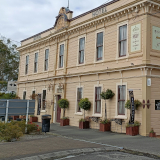
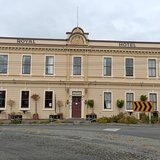
feat(home): add photo attribution for all real home-page images
- Adds the credit line the reviewer asked for on all 25 real/AI images
  across the active and coming-soon nav cards, plus Approvals and
  About this site
- Attribution.url is now optional — most credits are just a name with
  no source link, so the tooltip renders plain text when there's no
  url and a link when there is one
- Fixed .nav-card--coming having pointer-events: none on the whole
  card, which silently blocked the new ComingCard attribution tooltip
  from ever being hoverable; pointer events are now re-enabled on just
  the image
- Replaced the Local Accommodation photo — the original was a
  commercial photo — with a CC BY-SA Wikimedia Commons photo of the
  Royal Hotel

diff --git a/kanecta-ui/kanecta-apps/kanecta-app-community-hub/community-hub-client-web/src/pages/Home.tsx b/kanecta-ui/kanecta-apps/kanecta-app-community-hub/community-hub-client-web/src/pages/Home.tsx
@@ -14,6 +14,7 @@ const publicActive = [
     blurb: "Find local events, gatherings, and activities happening in Featherston.",
     path: "/events",
     image: "/home-page-images/events-160x160.jpg",
+    attribution: { label: "Photo: Joanna Baldwin" },
   },
   {
     title: "Transport",
@@ -36,42 +37,49 @@ const publicActive = [
     blurb: "Discover local community groups",
     path: "/groups",
     image: "/home-page-images/community-groups-160x160.jpg",
+    attribution: { label: "Photo: Joanna Baldwin" },
   },
   {
     title: "Local Businesses",
     blurb: "Support and explore local businesses in Featherston and the South Wairarapa.",
     path: "/local-businesses",
     image: "/home-page-images/local-business-160x160.jpg",
+    attribution: { label: "Photo: Richard Thomas" },
   },
   {
     title: "Social Services",
     blurb: "Access social support, welfare, and community care services.",
     path: "/social-services",
     image: "/home-page-images/social-services-160x160.jpg",
+    attribution: { label: "Photo: Joanna Baldwin" },
   },
   {
     title: "Community Resilience",
     blurb: "Resources and networks for when things get tough.",
     path: "/community-resilience",
     image: "/home-page-images/resilience-160x160.jpg",
+    attribution: { label: "Photo: Joanna Baldwin" },
   },
   {
     title: "Communication Networks",
     blurb: "Stay connected with local networks, groups, and channels.",
     path: "/communication-networks",
     image: "/home-page-images/comm-networks-160x160.jpg",
+    attribution: { label: "Photo: Joanna Baldwin" },
   },
   {
     title: "Local Government",
     blurb: "Local and regional government services for Featherston.",
     path: "/local-government",
     image: "/home-page-images/local-government-160x160.jpg",
+    attribution: { label: "Photo: Joanna Baldwin" },
   },
   {
     title: "Education",
     blurb: "Schools, early childhood services, and learning resources in Featherston.",
     path: "/education",
     image: "/home-page-images/education-160x160.jpg",
+    attribution: { label: "Photo: Joanna Baldwin" },
   },
 ];
 
@@ -80,71 +88,94 @@ const publicComing = [
     title: "Buy, Sell & Swap",
     blurb: "Buy, sell, swap, or give away items locally.",
     image: "/home-page-images/buy-sell-and-swap-160x160.jpg",
+    attribution: { label: "Photo: Gemini AI" },
   },
   {
     title: "Visitor Activities",
     blurb: "Things to do and see in Featherston and the South Wairarapa.",
     image: "/home-page-images/visitor-activities-160x160.jpg",
+    attribution: { label: "Photo: Joanna Baldwin" },
   },
   {
     title: "Health & Wellbeing",
     blurb: "GPs, pharmacy, dentist, mental health, and healthcare access in Featherston.",
     image: "/home-page-images/health-and-wellbeing-160x160.jpg",
+    attribution: { label: "Photo: Joanna Baldwin" },
   },
   {
     title: "Sport & Recreation",
     blurb: "Sports clubs, facilities, courts, and fitness groups.",
     image: "/home-page-images/sports-and-rec-160x160.jpg",
+    attribution: { label: "Photo: Joanna Baldwin" },
   },
   {
     title: "Environment & Outdoors",
     blurb: "Remutaka Rail Trail, Lake Wairarapa, conservation, and local walks.",
     image: "/home-page-images/outdoors-160x160.jpg",
+    attribution: { label: "Photo: Joanna Baldwin" },
   },
   {
     title: "Arts & Culture",
     blurb: "Local artists, galleries, Booktown festival, and performances.",
     image: "/home-page-images/arts-and-culture-160x160.jpg",
+    attribution: {
+      label: "Photo: PhillipC / CC BY 2.0",
+      url: "https://www.flickr.com/photos/42033648@N00/323749552",
+    },
   },
   {
     title: "Food & Drink",
     blurb: "Cafes, restaurants, local producers, and farmers markets.",
     image: "/home-page-images/food-and-drink-160x160.jpg",
+    attribution: { label: "Photo: Gemini AI" },
   },
   {
     title: "Jobs & Volunteering",
     blurb: "Local employment opportunities and ways to contribute your skills.",
     image: "/home-page-images/jobs-160x160.jpg",
+    attribution: { label: "Photo: Joanna Baldwin" },
   },
   {
     title: "Property & Housing",
     blurb: "Rentals, real estate, and local housing information.",
     image: "/home-page-images/housing-160x160.jpg",
+    attribution: { label: "Photo: Joanna Baldwin" },
   },
   {
     title: "Youth",
     blurb: "Services, activities, and resources for young people in Featherston.",
     image: "/home-page-images/youth-160x160.jpg",
+    attribution: { label: "Photo: Joanna Baldwin" },
   },
   {
     title: "Seniors",
     blurb: "Services, activities, and support for older residents.",
     image: "/home-page-images/seniors-160x160.jpg",
+    attribution: { label: "Photo: Joanna Baldwin" },
   },
   {
     title: "Pets & Animals",
     blurb: "Vets, lost pets, and animal services in the area.",
     image: "/home-page-images/pets-and-animals-160x160.jpg",
+    attribution: { label: "Photo: Sam Bartlett at Orton Lodge" },
   },
   {
     title: "Local Accommodation",
     blurb: "Places to stay in and around Featherston.",
     image: "/home-page-images/local-accommodation-160x160.jpg",
+    attribution: {
+      label: "Photo: Pakoire / CC BY-SA 3.0",
+      url: "https://commons.wikimedia.org/wiki/File:The_Royal_Hotel.jpg",
+    },
   },
   {
     title: "History",
     blurb: "The history of Featherston and the surrounding district.",
     image: "/home-page-images/history-160x160.jpg",
+    attribution: {
+      label: "Photo: Muir & Moodie / Te Papa (no known copyright restrictions)",
+      url: "https://collections.tepapa.govt.nz/object/320286",
+    },
   },
 ];
 
@@ -194,6 +225,10 @@ export default function Home() {
                 blurb="Review and approve community-submitted events and suggestions"
                 image="/home-page-images/approve-160x160.jpg"
                 path="/approvals"
+                attribution={{
+                  label: "Photo: Canva AI",
+                  url: "https://www.canva.com/",
+                }}
               />
             )}
             <div className="nav-divider">
@@ -214,6 +249,10 @@ export default function Home() {
           blurb="Our kaupapa, open governance, and how this site works."
           image="/home-page-images/about-this-site-160x160.jpg"
           path="/about"
+          attribution={{
+            label: "Photo: Deano87 / CC BY-SA 3.0",
+            url: "https://commons.wikimedia.org/wiki/File:State_Highway_2_%28Rimutaka_Hill_Road%29_near_the_top_of_the_range..jpg",
+          }}
         />
         <NavCard
           title="Open governance"

diff --git a/kanecta-ui/kanecta-apps/kanecta-app-community-hub/community-hub-client-web/src/components/NavCard.tsx b/kanecta-ui/kanecta-apps/kanecta-app-community-hub/community-hub-client-web/src/components/NavCard.tsx
@@ -3,7 +3,7 @@ import Tooltip from "@mui/material/Tooltip";
 
 interface Attribution {
   label: string;
-  url: string;
+  url?: string;
 }
 
 export interface NavCardProps {
@@ -23,15 +23,19 @@ export function NavCard({ title, blurb, path, image, attribution, featured, acce
       <Tooltip
         title={
           attribution ? (
-            <a
-              href={attribution.url}
-              target="_blank"
-              rel="noopener noreferrer"
-              onClick={(e) => e.stopPropagation()}
-              style={{ color: "inherit", textDecoration: "underline" }}
-            >
-              {attribution.label}
-            </a>
+            attribution.url ? (
+              <a
+                href={attribution.url}
+                target="_blank"
+                rel="noopener noreferrer"
+                onClick={(e) => e.stopPropagation()}
+                style={{ color: "inherit", textDecoration: "underline" }}
+              >
+                {attribution.label}
+              </a>
+            ) : (
+              attribution.label
+            )
           ) : ""
         }
         enterDelay={1500}
@@ -68,14 +72,18 @@ export function ComingCard({ title, blurb, image, attribution }: ComingCardProps
       <Tooltip
         title={
           attribution ? (
-            <a
-              href={attribution.url}
-              target="_blank"
-              rel="noopener noreferrer"
-              style={{ color: "inherit", textDecoration: "underline" }}
-            >
-              {attribution.label}
-            </a>
+            attribution.url ? (
+              <a
+                href={attribution.url}
+                target="_blank"
+                rel="noopener noreferrer"
+                style={{ color: "inherit", textDecoration: "underline" }}
+              >
+                {attribution.label}
+              </a>
+            ) : (
+              attribution.label
+            )
           ) : ""
         }
         enterDelay={1500}

diff --git a/kanecta-ui/kanecta-apps/kanecta-app-community-hub/community-hub-client-web/src/App.scss b/kanecta-ui/kanecta-apps/kanecta-app-community-hub/community-hub-client-web/src/App.scss
@@ -344,6 +344,10 @@ $bp-tablet: 768px;
     cursor: default;
     pointer-events: none;
     filter: grayscale(1);
+
+    .nav-card__image {
+      pointer-events: auto;
+    }
   }
 
   &--featured {
